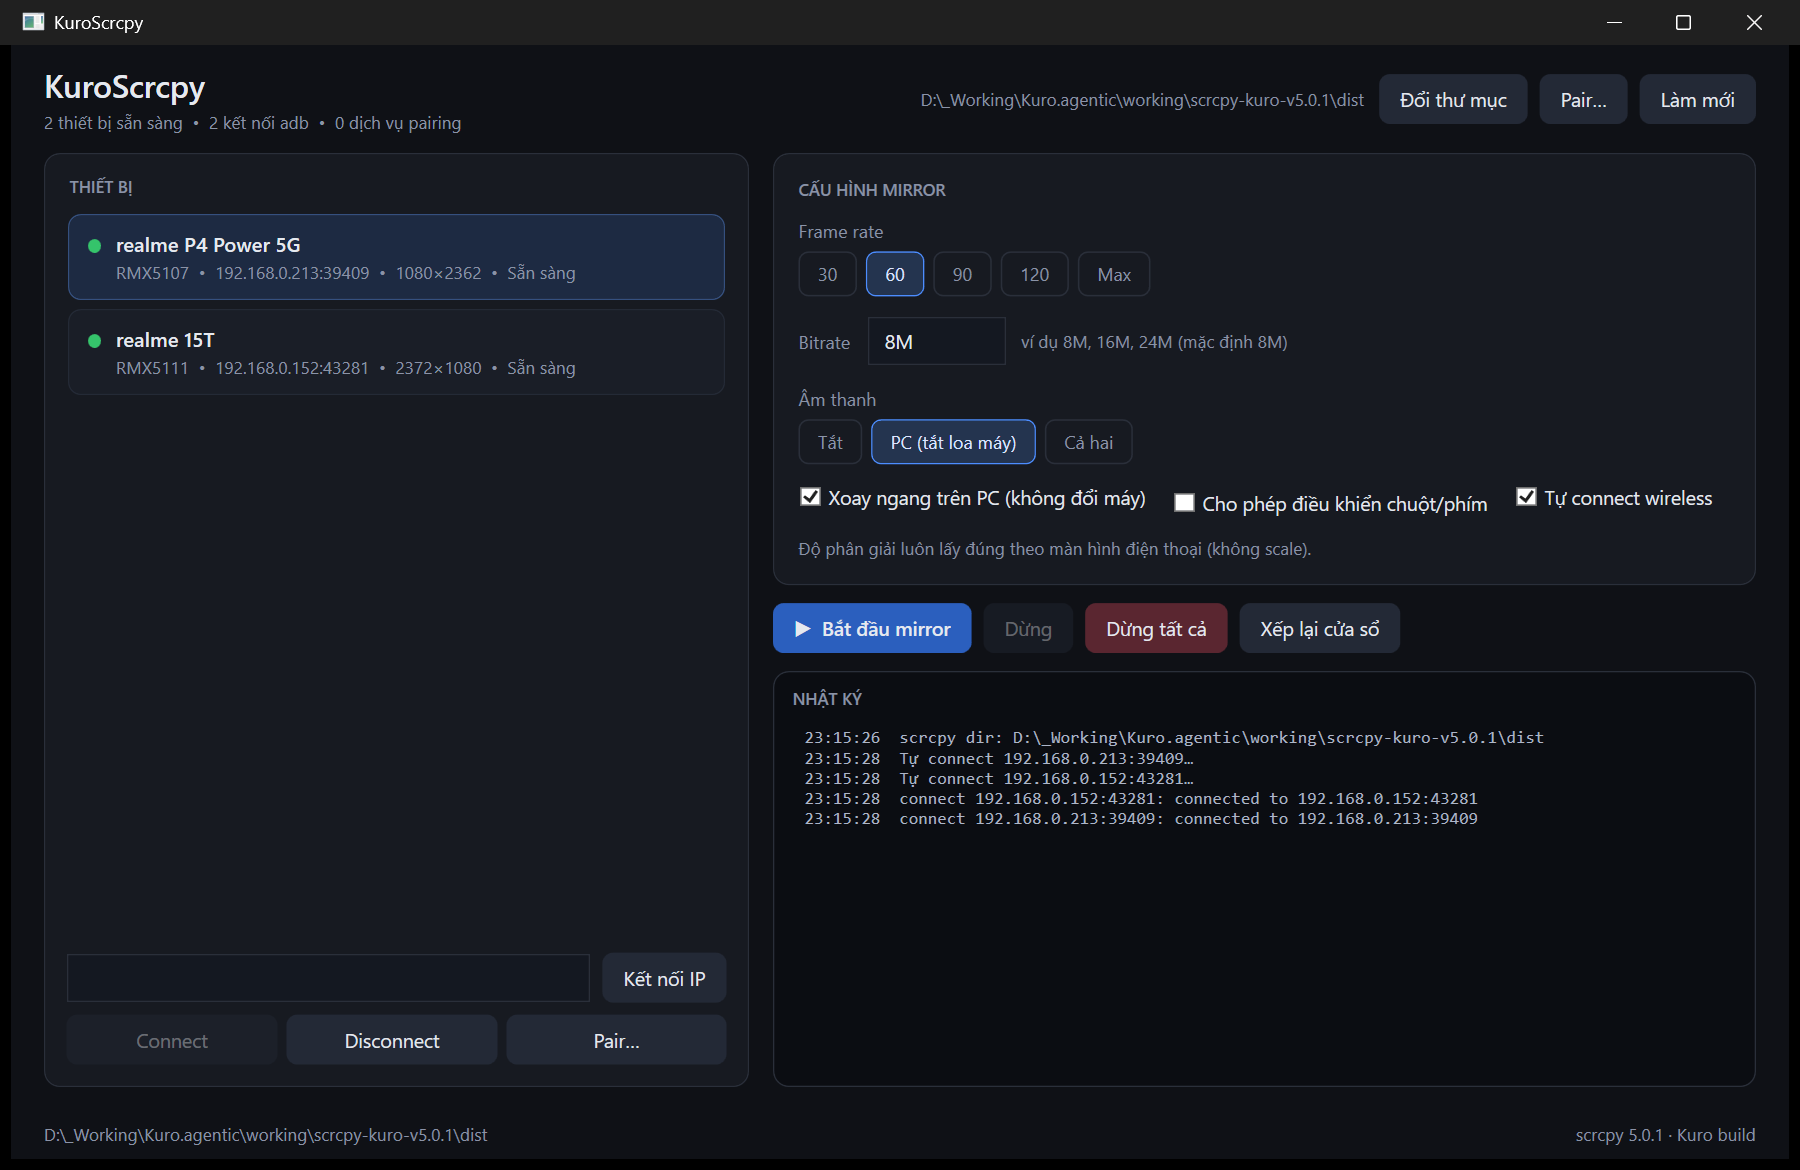
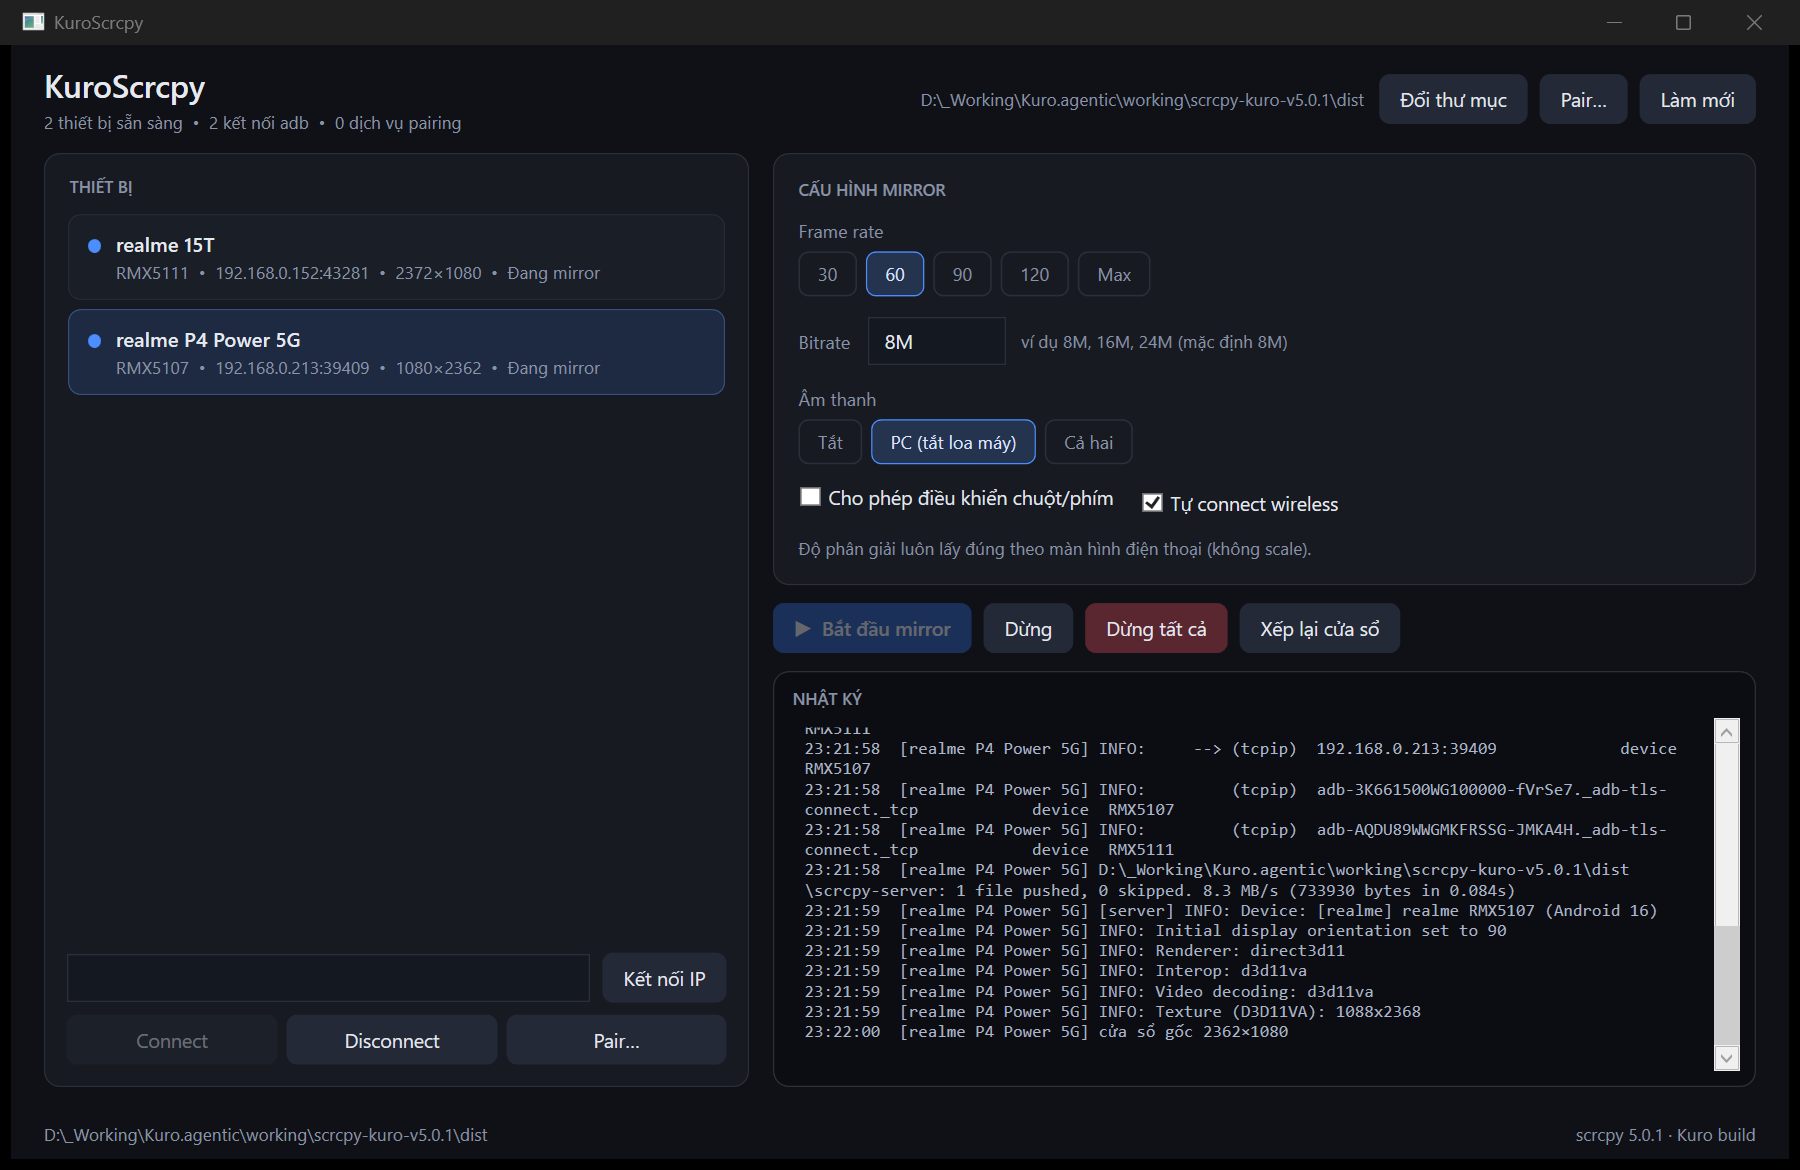
Remove landscape toggle; PC rotation stays automatic

diff --git a/ui/KuroScrcpy/MainWindow.xaml b/ui/KuroScrcpy/MainWindow.xaml
@@ -158,9 +158,8 @@
             </StackPanel>
 
             <StackPanel Orientation="Horizontal">
-              <CheckBox x:Name="ChkLandscape" Content="Xoay ngang trên PC (không đổi máy)" IsChecked="True" Margin="0,0,18,0"/>
-              <CheckBox x:Name="ChkControl" Content="Cho phép điều khiển chuột/phím"/>
-              <CheckBox x:Name="ChkAutoConnect" Content="Tự connect wireless" IsChecked="True" Margin="18,0,0,0"/>
+              <CheckBox x:Name="ChkControl" Content="Cho phép điều khiển chuột/phím" Margin="0,0,18,0"/>
+              <CheckBox x:Name="ChkAutoConnect" Content="Tự connect wireless" IsChecked="True"/>
             </StackPanel>
 
             <TextBlock Text="Độ phân giải luôn lấy đúng theo màn hình điện thoại (không scale)."

diff --git a/ui/KuroScrcpy/MainWindow.xaml.cs b/ui/KuroScrcpy/MainWindow.xaml.cs
@@ -67,7 +67,6 @@ public partial class MainWindow : Window
     private void ApplySettingsToUi()
     {
         BitRateBox.Text = _settings.BitRate;
-        ChkLandscape.IsChecked = _settings.PcLandscape;
         ChkControl.IsChecked = _settings.AllowControl;
         ChkAutoConnect.IsChecked = _settings.AutoConnectWireless;
         PathText.Text = _adb.ScrcpyDir;
@@ -100,7 +99,6 @@ public partial class MainWindow : Window
             AudioMode.Both => "Both",
             _ => "PcOnly"
         };
-        _settings.PcLandscape = ChkLandscape.IsChecked == true;
         _settings.AllowControl = ChkControl.IsChecked == true;
         _settings.AutoConnectWireless = ChkAutoConnect.IsChecked == true;
     }
@@ -357,7 +355,6 @@ public partial class MainWindow : Window
             BitRate = BitRateBox.Text.Trim(),
             Audio = SelectedAudio(),
             AllowControl = ChkControl.IsChecked == true,
-            PcLandscape = ChkLandscape.IsChecked == true,
         };
 
         device.IsMirroring = true;

diff --git a/ui/KuroScrcpy/Services/ScrcpyRunner.cs b/ui/KuroScrcpy/Services/ScrcpyRunner.cs
@@ -17,8 +17,6 @@ public class MirrorOptions
     public string BitRate { get; set; } = "8M";
     public AudioMode Audio { get; set; } = AudioMode.PcOnly;
     public bool AllowControl { get; set; }
-    /// <summary>Xoay khung hinh ngang tren PC (--orientation), khong doi setting cua dien thoai.</summary>
-    public bool PcLandscape { get; set; } = true;
 }
 
 public class MirrorSession
@@ -103,7 +101,7 @@ public class ScrcpyRunner
         };
 
         // Xoay ngang tren PC: --orientation la client-side, khong doi setting dien thoai
-        if (options.PcLandscape && portrait)
+        if (portrait)
         {
             args.Add("--orientation=90");
             (nativeWidth, nativeHeight) = (nativeHeight, nativeWidth);

diff --git a/ui/KuroScrcpy/Services/AppSettings.cs b/ui/KuroScrcpy/Services/AppSettings.cs
@@ -9,7 +9,6 @@ public class AppSettings
     public int MaxFps { get; set; } = 60;
     public string BitRate { get; set; } = "8M";
     public string AudioMode { get; set; } = "PcOnly"; // Off | PcOnly | Both
-    public bool PcLandscape { get; set; } = true;
     public bool AutoConnectWireless { get; set; } = true;
     public bool AllowControl { get; set; } = false;
 

diff --git a/ui/README.md b/ui/README.md
@@ -57,7 +57,7 @@ Có nút **Đổi thư mục** nếu muốn trỏ tay.
 | Frame rate | 30 / 60 / 90 / 120 / Max (`--max-fps`) |
 | Bitrate | `8M`, `16M`, `24M`… (`--video-bit-rate`) |
 | Âm thanh | **Tắt** (`--no-audio`) · **PC** (`output`, tắt loa máy) · **Cả hai** (`--audio-dup`, máy vẫn phát) |
-| Xoay ngang trên PC | `--orientation=90` khi máy đang portrait — client-side, **không sửa setting điện thoại** |
+| Xoay ngang trên PC | tự động: máy đang portrait → `--orientation=90`, client-side, **không sửa setting điện thoại** |
 | Cho phép điều khiển | mặc định tắt (`--no-control` = chỉ xem) |
 | Tự connect wireless | tự `adb connect` các dịch vụ mDNS tìm thấy + địa chỉ đã lưu |
 
